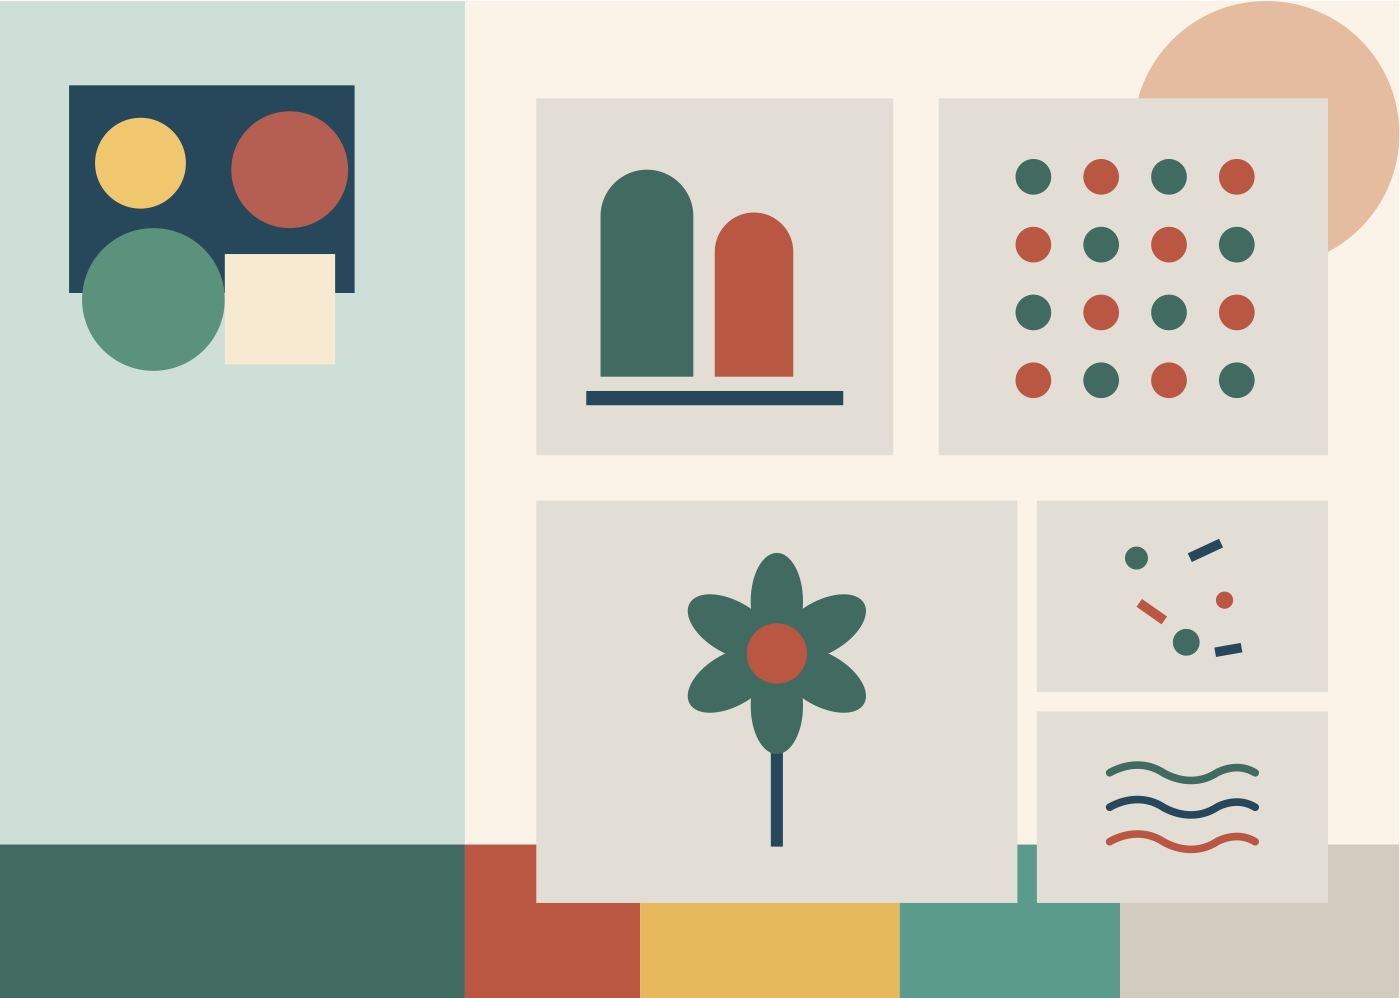
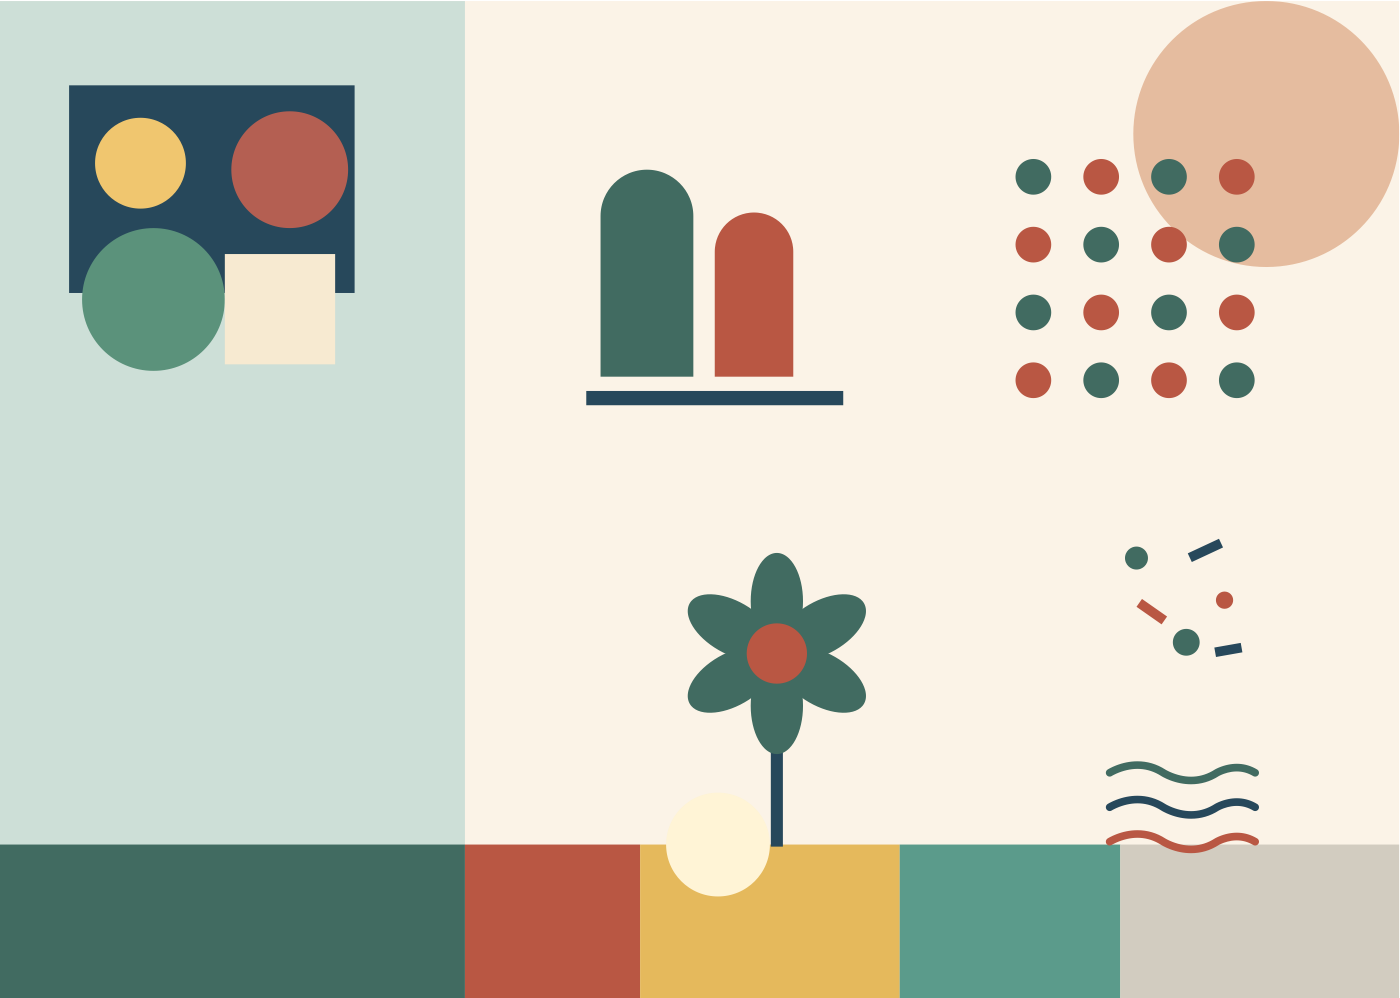
fix(book): Draw filler art on the page instead of on a grey panel
Summary:
- Remove the tinted panel each empty photo slot painted behind its
  motif, in both the book preview and the PDF exporter.
- Drop the derived `base` tone from the filler palette, which only
  existed to fill that panel.

Rationale:
- The panel was mixed 12% toward the ink tone, so a warm cream page
  turned cold grey (#fbf3e7 became #e2ded6) and the slots read as
  unstyled placeholder boxes rather than as art.
- Drawing straight onto the page makes an unfilled slot part of the
  page. The trade is that a frame placed over a solid coloured shape
  now draws its motif onto that shape, since accents are chosen to
  contrast with the page background rather than with whatever sits
  beneath the frame.

Tests:
- bun run format:check, lint, typecheck: pass
- bun run test: 327 pass
- bun run test:e2e: 22 pass, 2 skipped (production smoke, no
  credentials locally)
- bun run build, docker compose config, check-production-compose: pass
- Parity baselines and the issue #83 evidence regenerated

Related to #83

AI-Assisted-By: Codex
AI-Assisted: true
AI-Agent: claude-code
AI-Model: anthropic/claude-opus-5

diff --git a/src/domain/filler-art.ts b/src/domain/filler-art.ts
@@ -3,7 +3,8 @@ import { type LayoutElement, type LayoutSchema } from "./types.ts"
 /**
  * Placeholder art for photo slots a contributor left unfilled. A layout with five frames and
  * three uploaded photos would otherwise print two blank rectangles, so the remaining slots get a
- * flat vector motif instead.
+ * flat vector motif instead. The motif is drawn straight onto the page with no panel behind it,
+ * so an unfilled slot reads as part of the page rather than as an empty card on top of it.
  *
  * Everything here is authored as SVG path data in one square coordinate system, which both the
  * HTML preview and the `pdf-lib` exporter draw directly. Staying vector keeps filler art out of
@@ -30,8 +31,6 @@ export interface FillerMotif {
 }
 
 export interface FillerPalette {
-  /** Fills the whole slot, so the motif never sits directly on the page background. */
-  base: string
   primary: string
   secondary: string
   ink: string
@@ -281,14 +280,6 @@ function distance(left: Channels, right: Channels): number {
   return Math.hypot(left.r - right.r, left.g - right.g, left.b - right.b)
 }
 
-function mix(from: Channels, to: Channels, ratio: number): Channels {
-  return {
-    r: from.r + (to.r - from.r) * ratio,
-    g: from.g + (to.g - from.g) * ratio,
-    b: from.b + (to.b - from.b) * ratio,
-  }
-}
-
 function luminance({ r, g, b }: Channels): number {
   return (0.2126 * r + 0.7152 * g + 0.0722 * b) / 255
 }
@@ -355,9 +346,6 @@ export function fillerPalette(schema: LayoutSchema): FillerPalette {
   const [primary, secondary] = accents.filter((accent) => accent !== ink)
 
   return {
-    // Tinted towards the ink rather than the primary, so the two accent tones keep their full
-    // distance from the panel they are drawn on.
-    base: toHex(mix(background, ink, 0.12)),
     primary: toHex(primary!),
     secondary: toHex(secondary!),
     ink: toHex(ink),

diff --git a/src/server/pdf-renderer.ts b/src/server/pdf-renderer.ts
@@ -145,8 +145,9 @@ function drawCroppedImage(
 }
 
 /**
- * Draws the placeholder motif for a photo slot the contributor left unfilled. The art is vector,
- * so unlike an embedded photo it carries no resolution and never reaches the preflight PPI rules.
+ * Draws the placeholder motif for a photo slot the contributor left unfilled. Nothing is painted
+ * behind it, so the slot keeps whatever the page already puts there. The art is vector, so unlike
+ * an embedded photo it carries no resolution and never reaches the preflight PPI rules.
  *
  * `drawSvgPath` translates to the given point and then flips the Y axis, so the anchor is the top
  * edge of the motif square in page space.
@@ -164,14 +165,6 @@ function drawFillerArt(input: {
   const y = pdfY(input.geometry.y, input.geometry.height, input.specification)
   const width = pt(input.geometry.width)
   const height = pt(input.geometry.height)
-  input.page.drawRectangle({
-    x,
-    y,
-    width,
-    height,
-    color: color(input.palette.base),
-    opacity: input.opacity,
-  })
   const placement = motifPlacement(width, height)
   const left = x + placement.offsetX
   const top = y + height - placement.offsetY

diff --git a/src/domain/filler-art.test.ts b/src/domain/filler-art.test.ts
@@ -56,13 +56,15 @@ describe("filler art palette", () => {
     expect(dark.ink).toBe("#f0c66f")
   })
 
-  it("tints the slot panel away from the page so the art never floats on bare paper", () => {
+  it("keeps every tone clear of the page it will be drawn on", () => {
     const preset = backgroundPresets("a5", "landscape").find(
       (candidate) => candidate.id === "geometric-collage"
     )!
     const palette = fillerPalette(preset.schema)
 
-    expect(palette.base).not.toBe(preset.schema.background)
+    expect([palette.primary, palette.secondary, palette.ink]).not.toContain(
+      preset.schema.background
+    )
   })
 })
 

diff --git a/src/server/pdf-renderer.test.ts b/src/server/pdf-renderer.test.ts
@@ -150,8 +150,8 @@ describe("PDF renderer", () => {
 
     const operators = await pageOperators(bytes, 0)
     const palette = fillerPalette(layout.schema)
-    expect(operators).toMatch(colorOperator(palette.base))
-    expect(operators).toMatch(colorOperator(palette.primary))
+    const tones = [palette.primary, palette.secondary, palette.ink]
+    expect(tones.some((tone) => colorOperator(tone).test(operators))).toBe(true)
     // Path construction rather than an embedded raster placeholder, which is what keeps filler
     // art out of the effective-PPI checks that apply to real photos.
     expect(operators).toMatch(/ m\n/)

diff --git a/src/components/layout-page.tsx b/src/components/layout-page.tsx
@@ -157,7 +157,6 @@ function FillerArt({
       className="size-full"
       viewBox={`0 0 ${MOTIF_VIEWBOX} ${MOTIF_VIEWBOX}`}
       preserveAspectRatio="xMidYMid meet"
-      style={{ background: palette.base }}
       data-filler-motif={motif.id}
       aria-hidden="true"
     >
